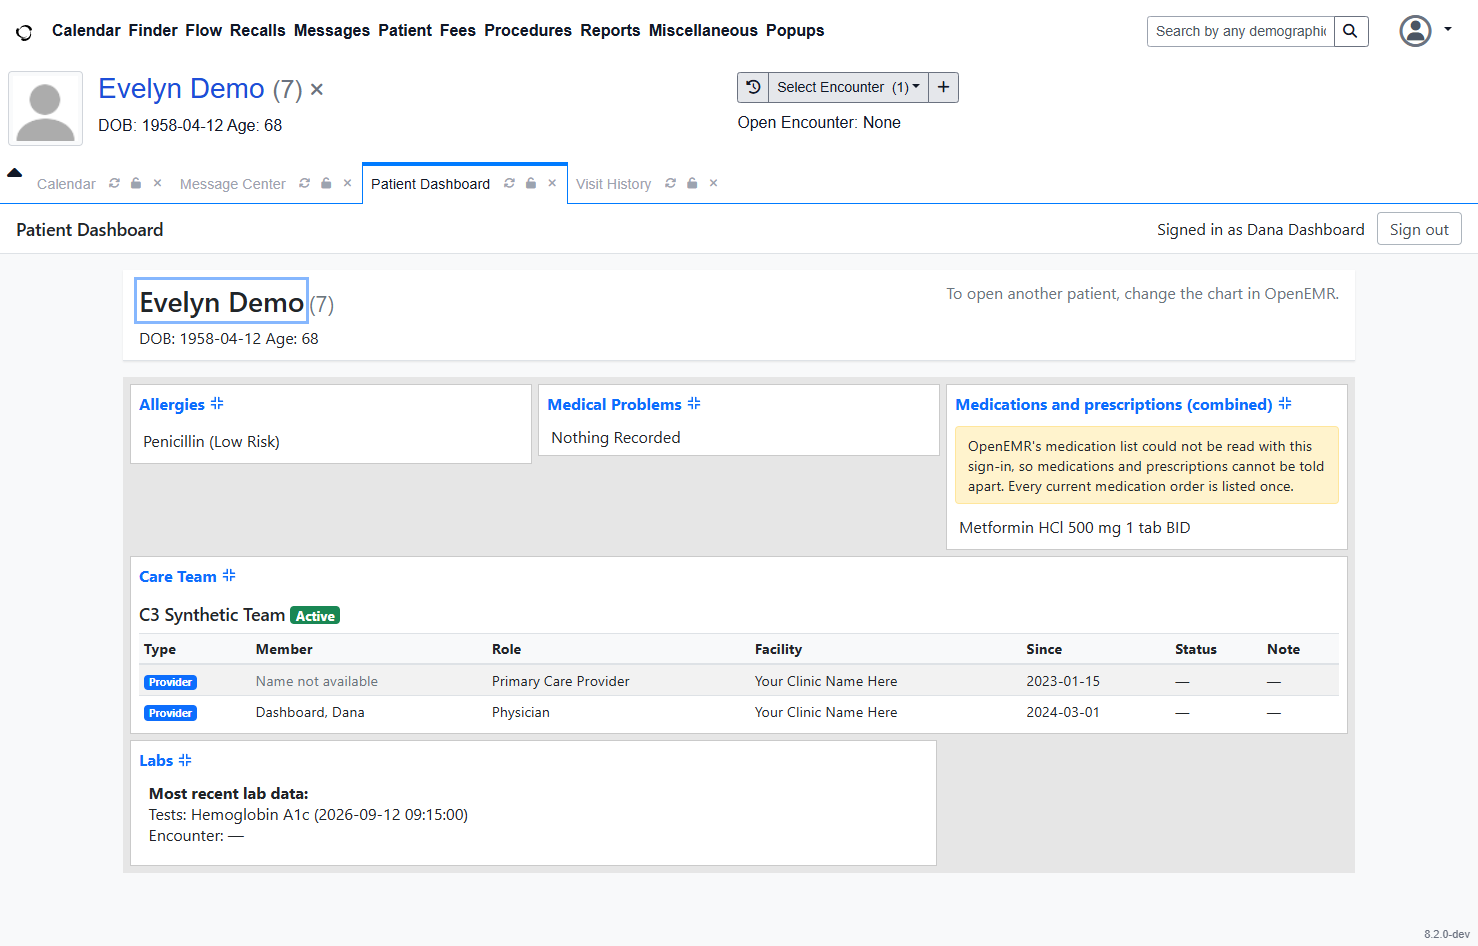
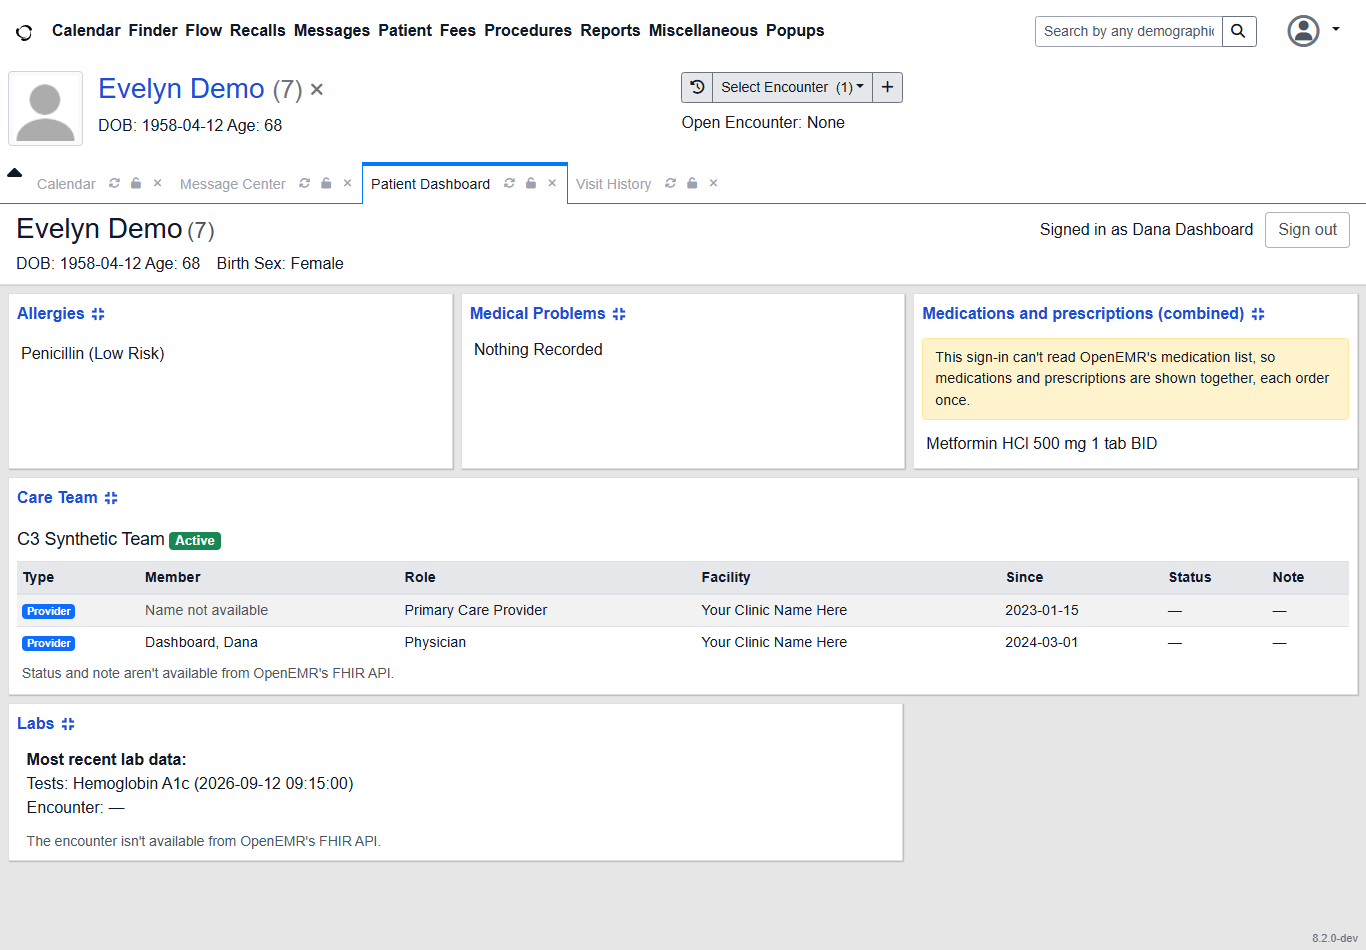
docs(dashboard): signed-out, mode B and mode C screenshots; PARITY.md updated

diff --git a/docs/dashboard-parity/PARITY.md b/docs/dashboard-parity/PARITY.md
@@ -5,7 +5,8 @@ Evidence for the parity requirement of the dashboard port (`dashboard/`). Each r
 - **Captured** 2026-09-27 on `docker/development-easy` (OpenEMR 8.2.0-dev, date format `YYYY-MM-DD`). The port screenshots (`*_port.png`, `list_landing_port.png`, `pid7_phone_port.png`) were re-captured after UX wave 3 the same day, with the same recipe (1400 px window, Care Team and Labs expanded; phone at 390 × 844 with the default collapse state).
 - **PHP**: signed in as `admin`, the dashboard opened in the patient tab.
 - **Port**: mode A (BFF), signed in as `drdash`, a non-admin user in the Physicians group, with the default build (no `VITE_OPENEMR_WEB_URL`, so no edit links).
-- **Mode B** (inside OpenEMR, patient-context token): `pid7_modeB_page.png` (from C5, before the UX waves: it still shows the old card chrome and app bar).
+- **Mode B** (inside OpenEMR, patient-context token): `pid7_modeB_page.png`, *Patient → Patient Dashboard (React)* for pid 7 as `drdash` (1366 px window, Care Team and Labs expanded). **Mode C**: `pid7_modeC_dialog.png`, the same app launched from the *SMART Enabled Apps* card's *Launch* dialog. Both re-captured 2026-09-27 after the UX waves, with the SMART bundle built from this tree.
+- **Signed-out home page** (mode A): `signed_out_port.png` (1366 px) and `signed_out_phone_port.png` (390 px); no patient data.
 - **Patients**: Evelyn Demo (pid 7) and Thomas Reyes (pid 10). All data is synthetic. Pid 7's care team ("C3 Synthetic Team": one active and one inactive member) was seeded for C3.
 - **Screenshots**: one element per file, named `pid<N>_<part>_{php|port}.png`.
 - **Gap numbers** (G#) refer to the gaps table in `dashboard/README.md` (*FHIR gaps and deliberate differences*).
@@ -131,6 +132,7 @@ Presentation and wording only: no data rule changed (allergy severity mapping, r
 | Combined medications note (modes B/C) | n/a | "This sign-in can't read OpenEMR's medication list, so medications and prescriptions are shown together, each order once." | wording only |
 | Modes B/C app bar | OpenEMR's own bars | no separate title row; *Signed in as* / *Sign out* in the patient bar | by design (plan L5) |
 | Phone (390 px) | not responsive | sticky patient bar 65 px, no wrapped button text, cards stacked | port only |
+| Signed-out home page (mode A) | n/a (OpenEMR's login page) | page heading "Sign in" (the landing page's title style, focused on arrival), "Use your OpenEMR account to open the patient dashboard.", *Sign in with OpenEMR*; tab title "Sign in – Patient Dashboard" (`signed_out_port.png`, `signed_out_phone_port.png`) | port only (its missing `h1` was an axe `page-has-heading-one` finding) |
 | Page layout (mode A) | patient page `container-fluid` | every page starts on the app title's left edge; the landing page is a 55rem column; the landing and not-found pages share one page title style (1.5rem, weight 500, OpenEMR `.title` size); landing cards sit 0.5rem apart, as on the dashboard | port only (wave 3) |
 | Page messages (mode A) | n/a | patient page: "Your OpenEMR account doesn't have access to this patient's chart.", "No patient matches this link. …", "Couldn't load this patient: …" with *Try again*; "Checking your sign-in…"; "Couldn't reach the dashboard server. Check your connection, then reload the page."; a failed sign-in says "Sign-in didn't complete: …" and the button reads *Sign in again*; unknown addresses: "This page doesn't exist." (a page heading) + *Go to the patient list* | wording only (wave 3) |
 
@@ -140,8 +142,9 @@ Presentation and wording only: no data rule changed (allergy severity mapping, r
   - pages checked: patient search with results; patient page with every card expanded; phone width (390 px); the patient-list landing page, with and without the recent-patients list (2026-09-27: 0 violations; at 390 px no horizontal page scroll).
   - result: **0 violations** after two fixes made in C6. The muted text colour was changed from `#6c757d` to `#5c636a` (it measured below 4.5:1 on striped rows and on the page background). The wide table wrappers became focusable regions, so they can be scrolled from the keyboard.
   - UX wave 1 (2026-09-27) set the muted colour to **`#4b5563`** (style_light `$gray-600`, OpenEMR's `.text-muted`; 7.5:1 on white), which also passes on the striped rows and the grey page. Re-run at 1366 px and 390 px: after wave 1 on the landing page and the patient page, and after wave 2 on the patient page with every card expanded (care-team note and footnotes shown), once as loaded and once with the Labs request blocked (error line and *Try again* shown): **0 violations** each time, no horizontal scroll at 390 px. After wave 3 (all rules, built BFF on the dev stack as `drdash`), at 1366 px and 390 px: the landing page empty, with recent patients, with search results and with the partial-DOB error; pid 7 with every card expanded; and the not-found page (its missing `h1` was the one finding, `page-has-heading-one`, fixed in wave 3): **0 violations**, no horizontal scroll at 390 px.
+  - Final pass (2026-09-27, all rules): the signed-out home page, which had the same `page-has-heading-one` finding and now has a "Sign in" heading, at 1366 px and 390 px; mode B (pid 7 inside OpenEMR, every card expanded, axe run in the app's frame) at 1366 px and with the tab frame narrowed to 390 px; mode C (the *Launch* dialog) at 1366 px: **0 violations** each, no horizontal scroll at 390 px. OpenEMR's own page around the frame is not counted (it has its own findings, e.g. `frame-title`, `image-alt`).
 - **PHP page for comparison** (`demographics.php?set_pid=7`, loaded as a top-level page): **34 serious or critical nodes in 7 rules** (`link-name` 17, `color-contrast` 11, `aria-required-parent` 2, `aria-hidden-focus`, `aria-valid-attr-value`, `html-has-lang`, `list`), plus 4 moderate rules.
-- **Unit test**: `dashboard/web/test/a11y.test.tsx` runs axe on the signed-out, search, landing (list + pager + recent patients) and patient pages in jsdom. jsdom cannot check colour contrast.
+- **Unit test**: `dashboard/web/test/a11y.test.tsx` runs axe on the whole document (so page-level rules such as `html-has-lang` and `document-title` run too) for the signed-out, search, landing (list + pager + recent patients) and patient pages in jsdom, and checks each has exactly one `h1`. jsdom cannot check colour contrast, and it always reports `page-has-heading-one` as incomplete, hence the explicit `h1` check.
 - **Keyboard only**, mode A, every step passed (C6, before the patient list was added; tab counts have changed since). Paging with Previous / Next by keyboard, with focus moving to the new page's table, is covered by `web/test/PatientListFlow.test.tsx`; the dev stack has too few patients for a second page:
   1. Tab reaches the name field; type a name, Enter.
   2. Tab reaches the result link (7 tabs); Enter.

diff --git a/dashboard/README.md b/dashboard/README.md
@@ -79,6 +79,7 @@ Scopes are read-only, with no `offline_access`, so no refresh token is issued. A
 ## Web app
 
 - **Data layer**: TanStack Query hooks (`web/src/data/hooks.ts`) over the `DataSource` interface, typed with `@types/fhir` R4. Components receive the state as data (`idle` / `loading` / `error` / `empty` / `ready`, `web/src/data/queryView.ts`). Only transient failures (502/5xx, 504, network) are retried, twice; 400/401/403/404 never are. A 401 ends the session ("Your session has expired"), and the query cache is cleared whenever the user is signed out.
+- **Signed-out home page** (`/`): the page heading "Sign in" (focused on arrival), one line saying what to use, and *Sign in with OpenEMR* (*Sign in again* after a failed sign-in). Tab title "Sign in – Patient Dashboard".
 - **Patient list** (`/dashboard`, the landing page; like OpenEMR's Patient Finder): every patient the user can see, **20 per page**, sorted by last name then first and middle name (`_sort=family,given`), with Previous / Next and "Page N". The page lives in the URL (`?page=2`). The app asks for 21 rows (`_count=21&_offset=…`) and enables Next only when the 21st arrives: OpenEMR's Patient Bundle has only a `self` link and its `total` is the number of entries returned, so there is no overall count. After paging, focus moves to the new page's table. Measured on the dev stack: `_count`, `_offset` and `_sort` (`family`, `-family`, `family,given`, `birthdate`) all take effect on Patient searches; ties on the full name have no further tie-break.
 - **Patient search**: name, date of birth and/or MRN narrow the same list (same paging and sort), checked in the browser against the same patterns the BFF allow-lists. Criteria live in the URL (`/dashboard?name=Demo`), so Back returns to the results; an empty search (or *Show all patients*) returns to the whole list. The table shows name, DOB, sex and MRN (the `PT` identifier), and each name links to `/patient/:id`. Switching patients keeps the session. OpenEMR's `identifier` search also matches SSNs; the SSN and phone numbers are never displayed.
 - **Recent patients** (on the landing page, above the list; `web/src/recent/`): OpenEMR keeps a per-user list server-side (`recent_patients`, shown by the Patient Finder), but no REST or FHIR route exposes it. The app therefore keeps its own, in `localStorage` under `dash.recentPatients.v1.<SHA-256 of the user's fhirUser>`, holding **FHIR patient ids only** (never names, DOBs or other PHI): at most 10, most recent first, updated when a patient's page opens. Names, DOB and MRN are read live through the BFF; a patient that answers 404 or 403 is dropped silently (and from storage). *Clear list* empties it. Every storage access is wrapped: with storage blocked, or no `fhirUser`, the list lives in memory for the session.
@@ -276,6 +277,6 @@ The app ships inside the OpenEMR image (root `Dockerfile`), so it is already the
 
 ## Tests and quality checks
 
-- `npm test`: **431 tests**. BFF 179 (config validation, login/callback/state/nonce/PKCE, session cookie, allow-list and query validation including the bounded patient list, upstream error mapping, headers, logs) and web 252 (FHIR models per card, subject guard, date/age formatting, both data sources, SMART launch, list/paging/search/recent-patients/patient/cards flows with MSW, recent-patients storage (ids only, per user, storage blocked), axe-core on the rendered pages).
-- `web/test/a11y.test.tsx`: axe-core on the signed-out page, search results, the landing page (list, pager, recent patients) and the full patient page (jsdom; colour contrast is checked in a real browser instead).
+- `npm test`: **495 tests**. BFF 179 (config validation, login/callback/state/nonce/PKCE, session cookie, allow-list and query validation including the bounded patient list, upstream error mapping, headers, logs) and web 316 (FHIR models per card, subject guard, date/age formatting, both data sources, SMART launch, list/paging/search/recent-patients/patient/cards flows with MSW, recent-patients storage (ids only, per user, storage blocked), axe-core on the rendered pages).
+- `web/test/a11y.test.tsx`: axe-core on the whole document for the signed-out page, search results, the landing page (list, pager, recent patients) and the full patient page, plus a check that each has exactly one `h1` (jsdom reports `page-has-heading-one` as incomplete and cannot check colour contrast; both are checked in a real browser instead).
 - Parity evidence, the real-browser axe run, the keyboard walkthrough and the phone-width check: `docs/dashboard-parity/PARITY.md`.
